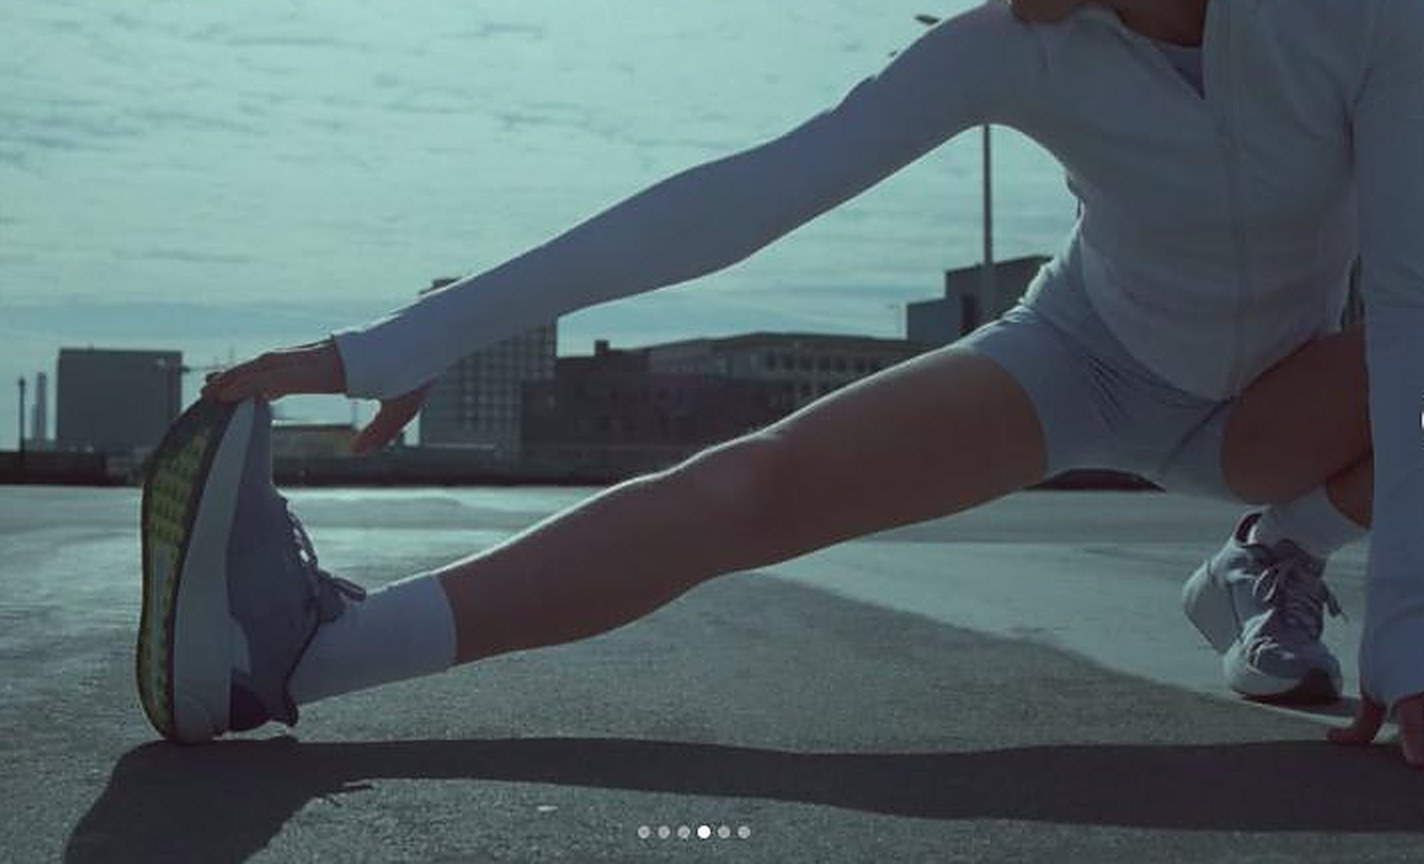
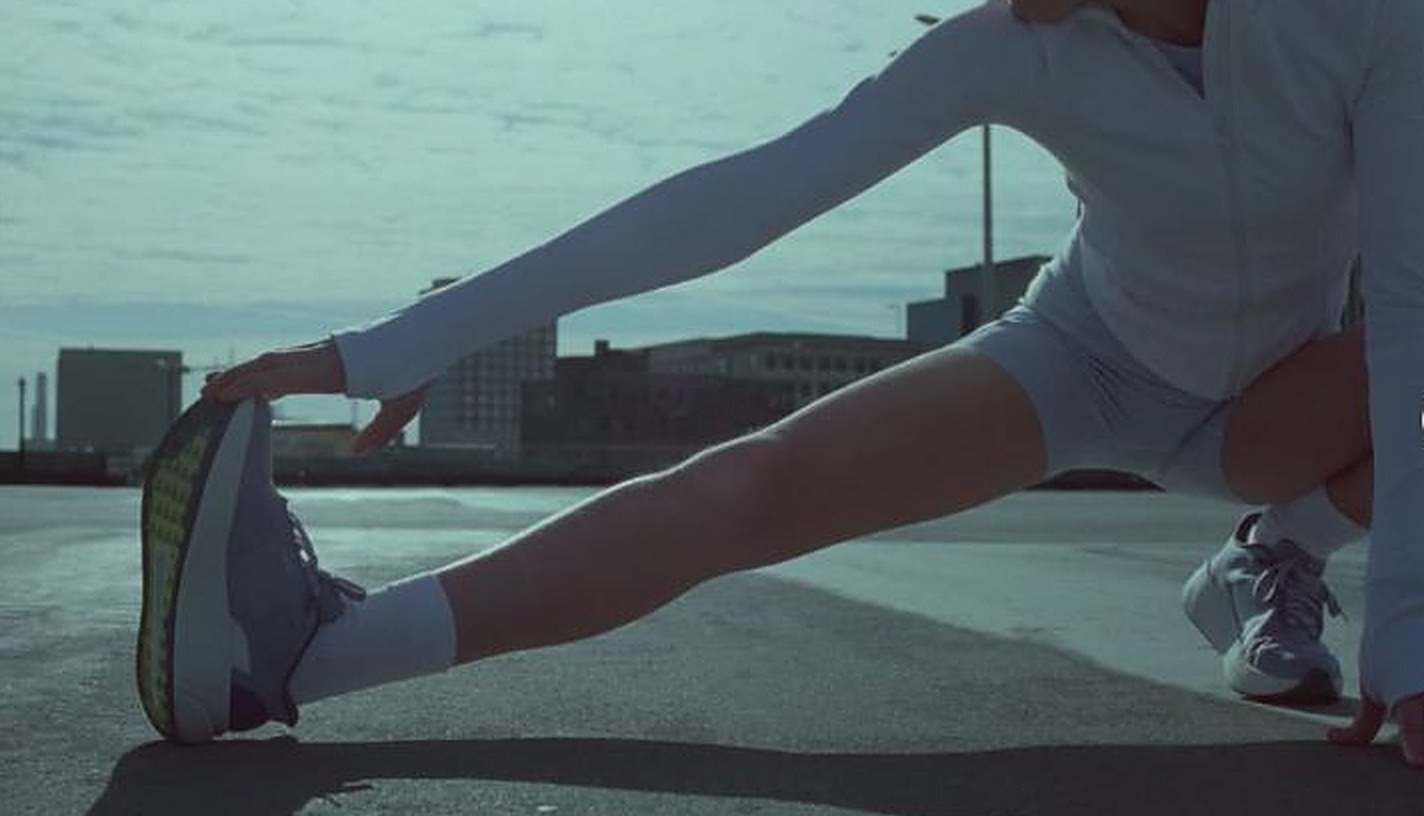
Whole-site pass: the reel's ball round on a phone and there from the first screen, the last film's time, tablet line, About's pace on a phone
- DirectorReel: the ball is a circle at every size (the round token, 100vw, is smaller than the ball on a phone held
  upright); it rises into view just under the opening, never cut by the stage's edge; the last film holds a third of
  a screen before the ball shrinks away, the stage letting go when it is a fifth of its size (80svh last space); the
  stage's dark is the section's ground, so the strip still on screen takes the colour the directors list paints the
  page with (data-paint); on a tablet the agency gets two columns; reads before writes in each frame.
- DirectorsHome: paints every element marked data-paint along with the page.
- AboutStory: on a tablet and a phone the ball leaves when the lower stem is 10 % down the screen (was 35 %: the
  whole travel took about 200 px of scroll on a phone).
- The rooftop placeholder still loses the carousel dots in its foot.
- DESIGN.md: the directors' colours, the pages' grounds, the motion contract and each page's motion; PROJECT.md.

Claude-Session: https://claude.ai/code/session_01LpBeKFkRhKbRhzBBAJtKr7

diff --git a/DESIGN.md b/DESIGN.md
@@ -1,22 +1,28 @@
 # Curveball: design
 
 The site of Curveball Films, a commercial production company whose home base is New Orleans. Built from OP's Figma
-(b3sFmBDWNYeXOydmTL79JU, page « curveball »: Home, News, Contact) and the brand guide (« Curveball Brand Guidelines »,
-Sep 30). The values live in system/curveball.json; base.css is generated from it (system/gen.py).
+(b3sFmBDWNYeXOydmTL79JU, page « curveball »: Home, News, Contact, Directors, a director's page, About) and the brand
+guide (« Curveball Brand Guidelines », Sep 30). The values live in system/curveball.json; base.css is generated from
+it (system/gen.py).
 
 ## Direction
 - The brand's « curve » language: the curves are a letter of the wordmark (ES Build's « u ») blown up until it is
   a shape, with the ball (a circle) caught in it. It closes every page above the footer, in the page's own colour:
-  red on Home, mustard on News, teal on Contact. That is the site's one signature; everything around it stays quiet
-  (one dark ground, big type, thin rules, small labels).
+  red on Home, mustard on News, teal on Contact; About opens with it. That is the site's one signature; everything
+  around it stays quiet (one dark ground, big type, thin rules, small labels).
 - The client asked for the play to come through motion and interaction rather than static graphics (Sep 21): the
-  ball travels through its curve as the page scrolls, filling its stroke as the brand guide's balls do and never cut
-  by another section; the dot appears before a hovered title. A page change stays classic (Sam, Nov 11): the page
-  dissolves into its colour, the colour turns to the next page's, its opening elements rise into place. The Figma's
-  cursors only show what can be clicked: no custom cursor (Sam, Nov 11). Motion follows OP's two tiers and the named
-  durations of base.css; smooth scroll medium (Lenis).
-- Each page has its ground: Home dark (black, stone text, taupe for the big type), News mustard, Contact teal, both
-  with black text. The footer is dark everywhere and takes the page's colour for its mark.
+  ball travels through its curve as the page scrolls, filling its stroke as the brand guide's balls do, all the way
+  and out by the other edge (Sam, Nov 12), never cut by another section; the dot appears before a hovered title. A
+  page change stays classic (Sam, Nov 11): the page dissolves into its colour, the colour turns to the next page's,
+  its opening elements rise into place. The Figma's cursors only show what can be clicked: no custom cursor (Sam,
+  Nov 11). Motion follows OP's two tiers and the named durations of base.css; smooth scroll medium (Lenis).
+- Each page has its ground: Home, Directors and About dark (black, stone text, taupe for the big type), News mustard,
+  Contact teal, a director's page in the director's colour (black text). The footer is dark everywhere and takes the
+  page's colour for its mark; Directors, a director's page and About have the plain footer (a rule, no curve).
+- Each director has a colour, from the brand's three, in turn down the list: teal, mustard, red (src/content/
+  directors, `colour`). Their page wears it; on the directors list (Home, Directors, the foot of a director's page)
+  the name in the middle of the screen turns the whole page to it, and balls carrying their films rise behind the
+  names.
 
 ## Measures (Figma at 1728)
 - Grid: 12 columns, margin 32, gutter 12 (Sam, Nov 11). Content width 1664; nothing grows beyond it.
@@ -24,19 +30,44 @@ Sep 30). The values live in system/curveball.json; base.css is generated from it
   own values (system/curveball.json, fluid).
 - Type at 1728: display 210, h1 163, h2 98, h3 57 (Bold, -3 %); label 24 (Regular); large 18 (Bold, -3 %); main 18
   (Medium); small 14 (Regular). At 390: 60, 44, 34, 26, 18, 16, 16, 12. The longest director's name (« Neymarc
-  Brothers ») fits a phone's width on one line at 44.
+  Brothers ») fits a phone's width on one line at 44; the directors list sets the names bigger on a phone, on two
+  lines (Sam, Nov 12).
 - Spacing: 8, 12, 16, 20, 24, 32, 40, 48, 64; sections 112, 144, 192 (roles in base.css: --space-rule, --space-dot,
   --space-media, --space-meta, --space-action, --space-title, --space-label, --page-top).
+
+## Motion
+- The contract (base.css): faster 150 ms (press, a hover leaving), fast 250 ms (hover, focus, the page's colour on
+  the directors list), medium 450 ms (menus, a page leaving), base 800 ms (headings, a page arriving), slow 1200 ms
+  (media fading in, the reel's films); ease-out (answers), ease-arrive (arrivals), ease-travel (from one place to
+  another), ease-leave (leaving the screen). Scrubbed motion has no ease of its own: the scroll is the curve.
+- The opening, once per page: the page's opening elements rise into place as the veil leaves (base, ease-out, 70 ms
+  apart at most); About's title lines fade up while its ball rolls in to the bend (slow x 1.5, ease-travel). Text is
+  never split behind a mask (Sam, Nov 12: it cut the descenders): lines fade up.
+- The curve bands (Home, News, Contact, About): the ball follows the stroke's middle, its radius following the
+  stroke's width, from where it enters to the Figma's rest and out by the other edge, scrubbed (0.5).
+- The directors list: the active name is the one under the middle of the screen; the page's colour follows it (fast).
+  Seven film balls rise behind the names, each born near the list's foot, growing (ease-out) then shrinking to
+  nothing near its top (ease-in); the scroll's speed carries them (near ones faster), they drift on a little and
+  settle within four seconds of rest (WCAG 2.2.2).
+- A director's reel: a ball rises into the page's colour under the opening, grows with the scroll until its film
+  fills the screen (smoothstep), holds while each project's line scrolls over it and the films cross-fade (slow);
+  after the last project it shrinks away up into the dark as the other directors come up.
+- Parallax: the news cards and the team's portraits drift at their own pace (fine pointer, 48rem and up, scrub 0.6).
+- Reduced motion: no travel, scale, parallax or smooth scroll; the balls sit at their Figma rest, the reel's film
+  fills its stage, colours change at once or over faster, page changes crossfade.
 
 ## Global classes (src/styles/project.css)
 - .site-grid: the 12 columns with named lines (margin, nav, two, split, half, three, aside, last, end).
 - .rule-top: the rule that opens a row or a section, and --space-rule to the text under it (Home's two rows, the
   inner pages' sections).
-- .dot-label: the dot before a label, centred on its capitals (« Featured work », « Directors »).
+- .dot-label: the dot before a label, centred on its capitals (« Featured work », « Directors »); .is-plus draws a
+  plus in it (a director's bio).
 - main is the container of the design unit --u.
 
 ## Components
-- Nav, Footer (global): the menu at columns 7 and 10 on every page; the footer opens with the curve in the page's
-  colour, the symbol in that colour, the menu, the line and the small print.
+- Nav, Footer (global): the menu at columns 7 and 10 on every page, an action at the last column when the page has
+  one (« Enquire about Jasper »); the footer opens with the curve in the page's colour (or a rule: plain), the
+  symbol in that colour, the menu, the line and the small print.
 - HeroHome, DirectorsHome, CurveBand (sections), ArrowLink (a link with its drawn arrow).
 - NewsList, ContactIntro, TeamList, Statement (sections); SectionHead, CardNews, ContactBlock, CardPerson (content).
+- DirectorHero, DirectorReel (a director's page), AboutStory, AboutLists (About); src/utils/parallax.ts.

diff --git a/PROJECT.md b/PROJECT.md
@@ -2,6 +2,27 @@
 
 One line per decision: the date, who asked, what was decided and why. The newest at the top.
 
+- 2026-11-12, Sam (Nov 11, 23:27: « une passe pour vérifier le site au complet ... ensuite la version tablette, la
+  version mobile »; decided by Claude): the whole-site pass, at 1728, 1440, 1024, 768 and 390.
+  - The reel's ball was a rounded square on a phone held upright (the round token is 100vw, smaller than a ball as
+    wide as the screen's diagonal): it is a circle at every size now.
+  - The reel's ball is there from the first screen: it rises into view just under the opening (never cut by the
+    stage's edge), so the colour under a short opening is never an empty field on a phone or a tablet.
+  - The last film now holds the screen for a third of a screen before the ball shrinks away; the stage lets go when
+    the ball is a fifth of its size, so the other directors come up sooner after it (the empty dark after the reel
+    was most of a screen on a phone).
+  - When a director's name lights the page on a director's page, the strip of the reel still on screen takes the
+    colour too (it stayed black, a hard edge).
+  - On a tablet the reel's line gives the agency two columns (« Wieden+Kennedy » broke in the middle).
+  - About's ball ran its whole way in about 200 px of scroll on a phone (three times the scroll's pace): on a tablet
+    and a phone it now leaves when the lower stem is 10 % down the screen, not 35 %, about one and a half times the
+    scroll's pace.
+  - The rooftop still (a placeholder from the Figma) had a carousel's dots in its foot: cropped off.
+  - Checked and kept: the page changes from a coloured directors list (Home to a director, a director to another,
+    Home to About), the colours and the opening elements; the phone profile (CPU slowed four times) scrolls About
+    with no long task, Home and a director's page with one short hitch where the page changes colour (a whole-page
+    restyle, about 15 ms at full speed).
+
 - 2026-11-12, Sam (00:33 to 00:36, from his phone: « la boule peut sortir de l'autre bord, sur les autres pages
   aussi », « le background couleur doit changer sur toute la page », « scale up apparaître, down disparaître en haut,
   plus smooth », « noms plus gros, sur 2 lignes », « transition ... vidéo full screen pas smooth: plus immersif,
